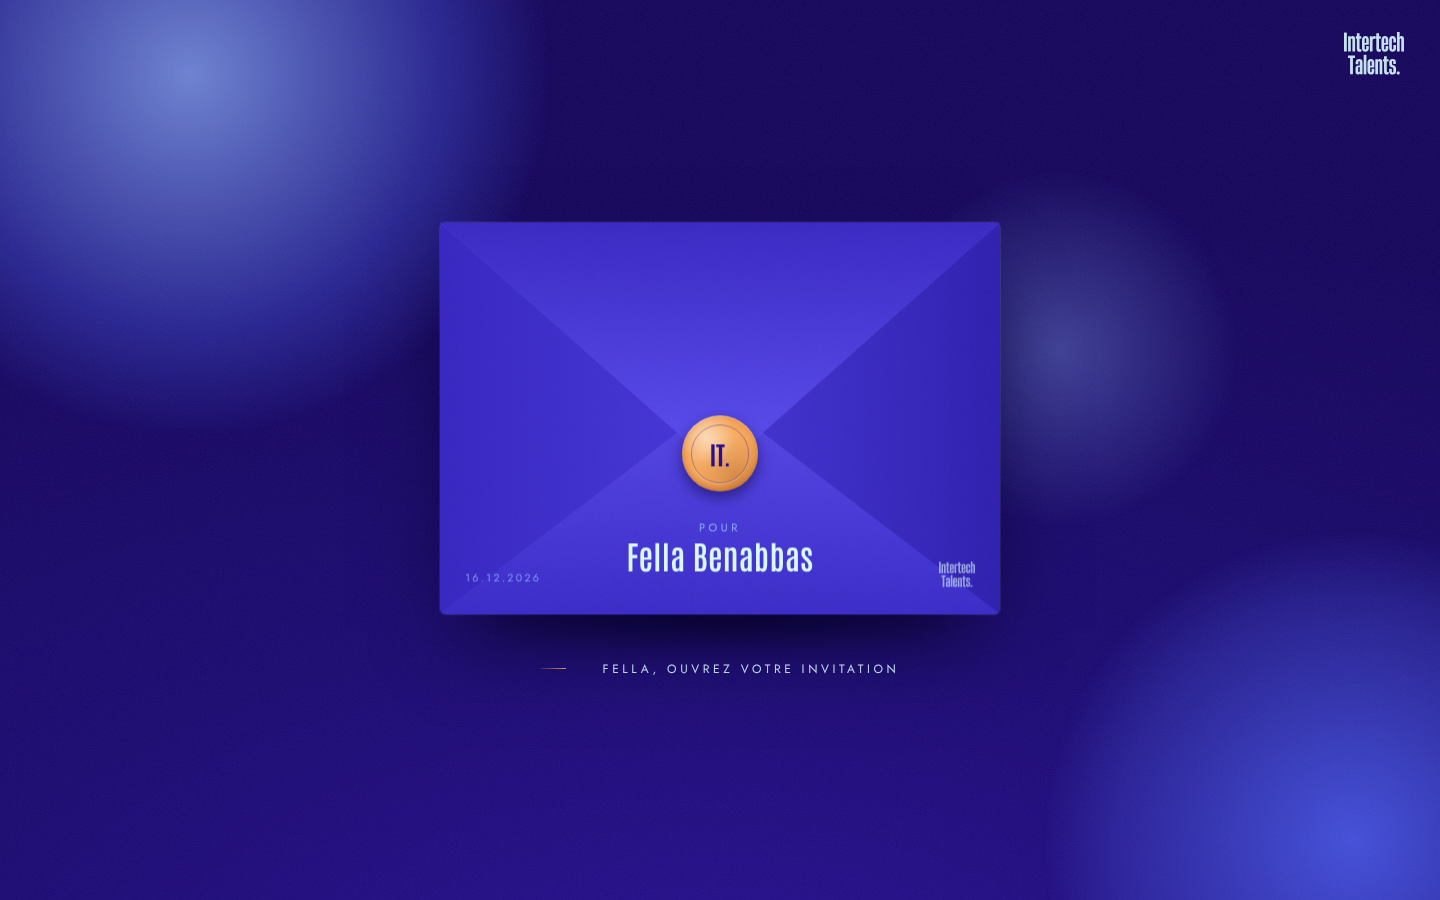
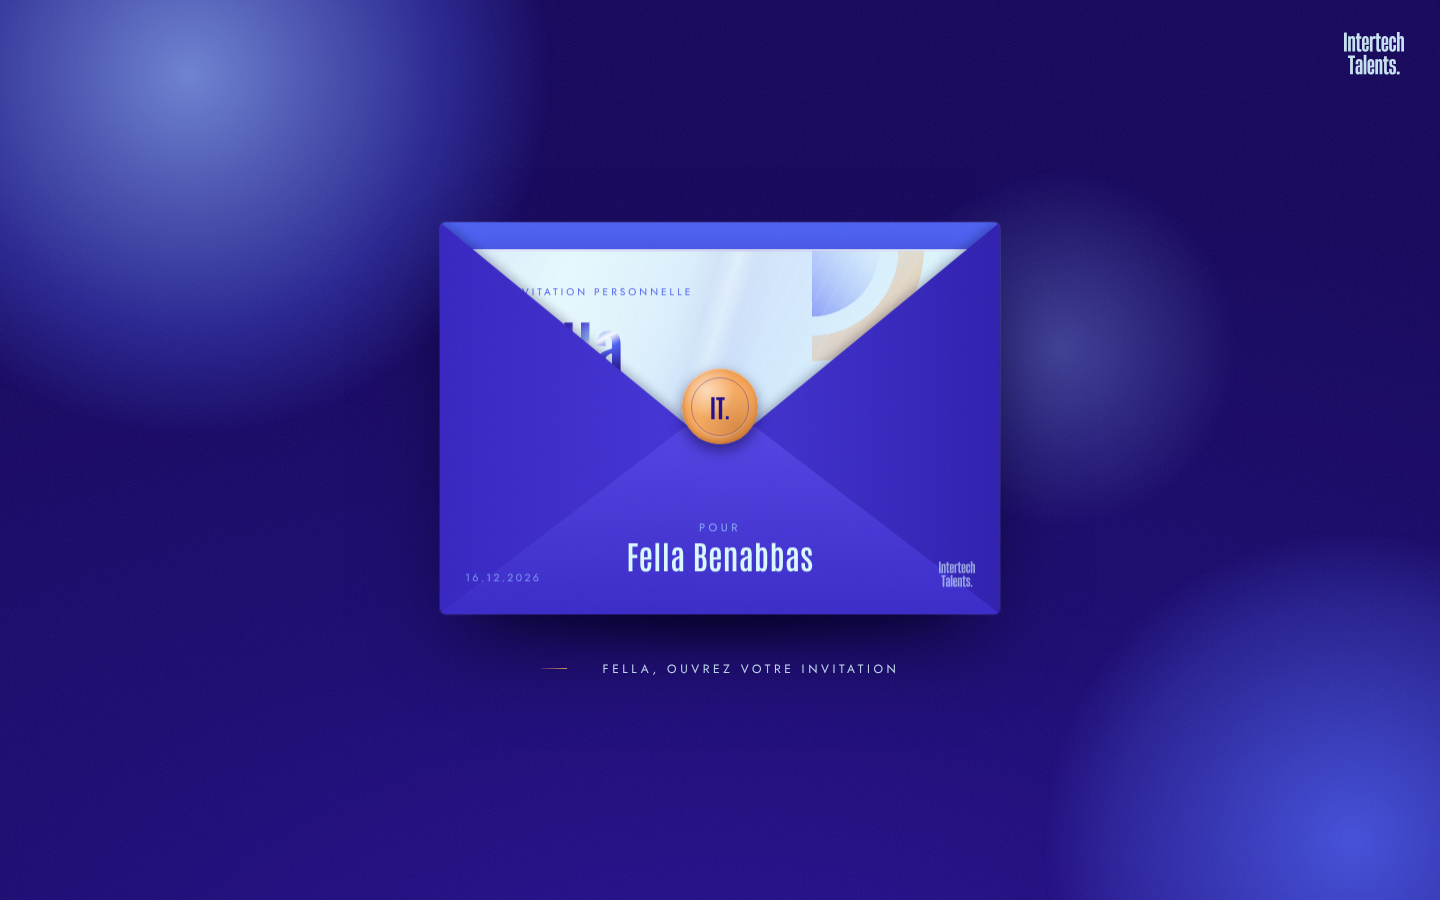
Sans rabat : carte holographique et reflets chromés au survol
- Enveloppe ouverte, la carte dépasse de la pochette
- Film irisé aux couleurs de la charte, biseau et liseré chromé
- Reflets métalliques et nom en métal poli qui suivent le pointeur

Claude-Session: https://claude.ai/code/session_01SQXEc3PKu3dyyKJ4NewrgJ

Changed region(s): [[0.3125, 0.2489, 0.6875, 0.56]]

diff --git a/styles.css b/styles.css
@@ -99,7 +99,7 @@ main { position: relative; z-index: 1; height: 100%; }
 .env-pocket { position: absolute; inset: 0; z-index: 3; border-radius: 6px; overflow: hidden; pointer-events: none; }
 .env-pocket > svg { position: absolute; inset: 0; width: 100%; height: 100%;
   filter: drop-shadow(0 -2px 6px rgba(10, 3, 50, .35)); }
-.pocket-grain, .flap-grain { position: absolute; inset: 0; background-image: var(--grain); background-size: 180px;
+.pocket-grain { position: absolute; inset: 0; background-image: var(--grain); background-size: 180px;
   opacity: .05; }
 .pocket-grain { -webkit-mask: linear-gradient(#000, #000); }
 .recipient { position: absolute; left: 0; right: 0; bottom: 11%; display: grid; justify-items: center; gap: .35em;
@@ -112,16 +112,8 @@ main { position: relative; z-index: 1; height: 100%; }
 .pocket-logo { position: absolute; right: 4.5%; bottom: 7%; width: 36px; color: var(--ice); opacity: .6; }
 
 /* Rabat */
-.env-flap { position: absolute; left: 0; right: 0; top: 0; height: 63%; z-index: 4;
-  transform-origin: 50% 0; transform-style: preserve-3d; will-change: transform; }
-.flap-face { position: absolute; inset: 0; backface-visibility: hidden; -webkit-backface-visibility: hidden; }
-.flap-face svg { width: 100%; height: 100%; display: block; }
-
-.flap-out .flap-grain { clip-path: polygon(0 0, 100% 0, 55% 90%, 50% 100%, 45% 90%); border-radius: 6px 6px 0 0; }
-.flap-in { transform: rotateX(180deg); }
-
 /* Cachet */
-.seal { position: absolute; z-index: 5; left: 50%; top: 59%; width: clamp(54px, calc(var(--env-w) * .135), 78px);
+.seal { position: absolute; z-index: 5; left: 50%; top: 47%; width: clamp(54px, calc(var(--env-w) * .135), 78px);
   aspect-ratio: 1; margin-left: calc(clamp(54px, calc(var(--env-w) * .135), 78px) / -2);
   margin-top: calc(clamp(54px, calc(var(--env-w) * .135), 78px) / -2);
   border-radius: 50%; display: grid; place-items: center;
@@ -150,7 +142,7 @@ main { position: relative; z-index: 1; height: 100%; }
    CARTE
    ========================================================================== */
 .card {
-  position: absolute; z-index: 2; left: 5%; right: 5%; top: 5%; height: 88%;
+  position: absolute; z-index: 2; left: 5%; right: 5%; top: 7%; height: 88%;
   background:
     radial-gradient(120% 80% at 0% 0%, #f1fdff 0%, transparent 60%),
     linear-gradient(180deg, #e3fbff 0%, var(--ice) 100%);
@@ -269,6 +261,62 @@ main { position: relative; z-index: 1; height: 100%; }
 .replay:hover { color: var(--ink); border-color: rgba(40, 15, 145, .35); }
 .replay:hover svg { transform: rotate(-200deg); }
 .replay:focus-visible { outline: 2px solid var(--amber); outline-offset: 4px; }
+
+/* ---------- Hologramme chromé (couleurs de la charte) ----------
+   Variables pilotées par invitation.js sur .card :
+   --px / --py : position du pointeur (0 → 1) · --hov : intensité du survol (0 → 1) */
+.card { --px: .3; --py: .35; --hov: 0; }
+.holo { position: absolute; inset: 0; pointer-events: none; overflow: hidden; border-radius: inherit; }
+/* film irisé, tons froids + fine bande ambre */
+.holo::before { content: ""; position: absolute; inset: 0; opacity: calc(.32 + var(--hov) * .18);
+  background: linear-gradient(118deg,
+    #daf9ff 0%, #8bacfa 12%, #daf9ff 22%, #b7c3ff 32%, #daf9ff 40%,
+    #f6a95f 45%, #daf9ff 50%, #8bacfa 60%, #daf9ff 70%, #9aa8fb 82%, #daf9ff 100%);
+  background-size: 320% 320%;
+  background-position: calc(var(--px) * 100%) calc(var(--py) * 100%); }
+/* diffraction très fine */
+.holo-lines { position: absolute; inset: 0; opacity: calc(.14 + var(--hov) * .12);
+  background: repeating-linear-gradient(118deg, transparent 0 7px, rgba(255,255,255,.9) 8px, transparent 9px 14px); }
+/* reflet chromé : point spéculaire + filet net, comme une surface métallique */
+.holo-glare { position: absolute; inset: 0; opacity: calc(.25 + var(--hov) * .75);
+  background:
+    radial-gradient(38% 55% at calc(var(--px) * 100%) calc(var(--py) * 100%), rgba(255,255,255,.95), rgba(255,255,255,0) 70%),
+    linear-gradient(calc(100deg + var(--px) * 30deg),
+      transparent calc(28% + var(--px) * 40%),
+      rgba(40,15,145,.14) calc(33% + var(--px) * 40%),
+      rgba(255,255,255,.9) calc(36% + var(--px) * 40%),
+      rgba(40,15,145,.12) calc(39% + var(--px) * 40%),
+      transparent calc(44% + var(--px) * 40%)); }
+/* biseau : arête claire en haut/gauche, ombre indigo en bas/droite, liseré chromé qui tourne */
+.card::after { content: ""; position: absolute; inset: 0; border-radius: inherit; pointer-events: none; z-index: 3;
+  box-shadow:
+    inset 0 1.5px 0 rgba(255,255,255,.95),
+    inset 1.5px 0 0 rgba(255,255,255,.6),
+    inset 0 -2px 3px rgba(40,15,145,.28),
+    inset -2px 0 3px rgba(40,15,145,.18); }
+.card::before { content: ""; position: absolute; inset: 0; border-radius: inherit; padding: 1.5px; pointer-events: none; z-index: 3;
+  background: conic-gradient(from calc(var(--px) * 360deg + 200deg),
+    #daf9ff, #4d61f4, #280f91, #8bacfa, #ffffff, #f6a95f, #daf9ff, #4d61f4, #daf9ff);
+  -webkit-mask: linear-gradient(#000 0 0) content-box, linear-gradient(#000 0 0);
+  -webkit-mask-composite: xor; mask-composite: exclude;
+  opacity: calc(.45 + var(--hov) * .55); }
+/* nom en métal poli */
+.cover-name {
+  background: linear-gradient(calc(165deg + (var(--px) - .5) * 50deg),
+    #280f91 0%, #3b2bc4 34%, #8bacfa 45%, #ffffff 50%, #4d61f4 56%, #280f91 72%, #3420b4 100%);
+  background-size: 100% 220%; background-position: 0 calc(var(--py) * 100%);
+  -webkit-background-clip: text; background-clip: text; color: transparent;
+  filter: drop-shadow(0 1px 0 rgba(255,255,255,.7)); }
+.cover { z-index: 1; }
+.card.is-full::before, .card.is-full::after { display: none; }
+.card.is-full .holo { height: 420px; bottom: auto;
+  -webkit-mask-image: linear-gradient(#000 0%, rgba(0,0,0,.5) 45%, transparent 100%);
+          mask-image: linear-gradient(#000 0%, rgba(0,0,0,.5) 45%, transparent 100%); }
+.card.is-full .holo::before { opacity: .26; }
+.card.is-full .holo-lines { opacity: .1; }
+.card.is-full .holo-glare { opacity: .35; }
+.card.is-full .full { z-index: 1; }
+@media (prefers-reduced-motion: reduce) { .card { --hov: 0 !important; } }
 
 /* ---------- Touches « tech » ---------- */
 .mono { font-family: var(--font-mono); font-weight: 400; letter-spacing: .06em; }

diff --git a/invitation.js b/invitation.js
@@ -108,7 +108,7 @@
 
   /* ---------- 3. Éléments ---------- */
   const envelope = $("#envelope"), envStage = $("#envStage"), envTilt = $("#envTilt");
-  const flap = $("#flap"), seal = $("#seal"), card = $("#card"), cover = $(".cover", card);
+  const seal = $("#seal"), card = $("#card"), cover = $(".cover", card);
   const openBtn = $("#openBtn"), hint = $("#hint"), hintLine = $(".hint-line");
   const reading = $("#reading"), slot = $("#slot"), scene = $("#scene");
   const recipient = $(".recipient"), shadow = $(".env-shadow"), live = $("#live");
@@ -135,7 +135,6 @@
   /* ---------- 4. Entrée ---------- */
   function intro() {
     gsap.set(envelope, { visibility: "visible" });
-    gsap.set(flap, { rotationX: 0, zIndex: 4, autoAlpha: 1 });
     gsap.set(seal, { autoAlpha: 1, scale: 1, y: 0, rotation: 0 });
     gsap.set(card, { yPercent: 0 });
 
@@ -155,7 +154,9 @@
      .add(() => { openBtn.disabled = false; idle(); });
   }
 
+  let holoTween;
   function idle() {
+    holoTween = gsap.fromTo(card, { "--px": .2, "--py": .3 }, { "--px": .8, "--py": .65, duration: 5, ease: "sine.inOut", yoyo: true, repeat: -1 });
     floatTween = gsap.to(envelope, { y: -6, duration: 2.8, ease: "sine.inOut", yoyo: true, repeat: -1 });
     gsap.to(shadow, { scale: .94, autoAlpha: .8, duration: 2.8, ease: "sine.inOut", yoyo: true, repeat: -1 });
     hintTween = gsap.fromTo(hintLine, { backgroundPosition: "0 0", scaleX: .4, transformOrigin: "0 50%" },
@@ -171,12 +172,31 @@
     const r = envTilt.getBoundingClientRect();
     sheen.style.setProperty("--mx", `${((e.clientX - r.left) / r.width) * 100}%`);
     sheen.style.setProperty("--my", `${((e.clientY - r.top) / r.height) * 100}%`);
+    // effet chromé : reflets pilotés par la position du pointeur sur la carte
+    const cr = card.getBoundingClientRect();
+    const over = e.clientX > cr.left && e.clientX < cr.right && e.clientY > cr.top && e.clientY < r.bottom;
+    const px = gsap.utils.clamp(0, 1, (e.clientX - cr.left) / cr.width);
+    const py = gsap.utils.clamp(0, 1, (e.clientY - cr.top) / (r.bottom - cr.top));
+    holoTween && holoTween.pause();
+    gsap.to(card, { "--px": px, "--py": py, "--hov": over ? 1 : .25, yPercent: over ? -16 : 0,
+      duration: .7, ease: "power3.out", overwrite: "auto" });
     const dx = (e.clientX - (r.left + r.width / 2)) / window.innerWidth;
     const dy = (e.clientY - (r.top + r.height / 2)) / window.innerHeight;
     tiltY(gsap.utils.clamp(-7, 7, dx * 14));
     tiltX(gsap.utils.clamp(-6, 6, -dy * 12));
   }
   window.addEventListener("pointermove", onMove, { passive: true });
+  document.addEventListener("pointerleave", () => {
+    if (opened) return;
+    gsap.to(card, { "--hov": 0, yPercent: 0, duration: .8, ease: "power3.out", overwrite: "auto" });
+    holoTween && holoTween.resume();
+  });
+  window.addEventListener("pointermove", (e) => {
+    if (!opened || busy || reduce.matches || !finePointer.matches) return;
+    const r = card.getBoundingClientRect();
+    const px = gsap.utils.clamp(0, 1, (e.clientX - r.left) / r.width);
+    gsap.to(card, { "--px": px, duration: 1.2, ease: "power3.out", overwrite: "auto" });
+  }, { passive: true });
 
   /* ---------- 6. Ouverture ---------- */
   function open() {
@@ -185,6 +205,7 @@
     openBtn.disabled = true;
     floatTween && floatTween.kill();
     hintTween && hintTween.kill();
+    holoTween && holoTween.kill();
     gsap.killTweensOf(shadow);
     tiltX(0); tiltY(0);
 
@@ -206,19 +227,17 @@
       .to(envelope, { y: 0, duration: .3, ease: "power2.out" }, 0)
       .to(seal, { scale: .9, duration: .16, ease: "power2.in" }, 0)
       .to(seal, { scale: 1.06, duration: .22, ease: "power2.out" }, .16)
-      // le cachet se détache et accompagne le rabat
+      // le cachet s'efface, un reflet traverse l'hologramme
       .to(seal, { autoAlpha: 0, scale: .85, duration: .4, ease: "power2.in" }, .34)
-      // 1. le rabat se déplie
-      .to(flap, { rotationX: 180, duration: 1.05, ease: "power3.inOut" }, .36)
-      .set(flap, { zIndex: 1 }, .36 + 1.05 * .5)
-      .to(flap, { autoAlpha: 0, duration: .4, ease: "power1.out" }, .36 + 1.05 * .42)
-      .to(recipient, { autoAlpha: 0, duration: .5 }, .5)
+      .to(card, { "--px": 1, "--py": .2, "--hov": 1, duration: .9, ease: "power2.inOut", overwrite: "auto" }, .2)
+      .to(card, { "--hov": 0, duration: .8, ease: "power2.out" }, 1.1)
+      .to(recipient, { autoAlpha: 0, duration: .5 }, .4)
       // léger recul de l'enveloppe pour laisser respirer la carte
-      .to(envStage, { y: mobile ? "8vh" : "10vh", scale: mobile ? .94 : .9, duration: 1.3, ease: "power3.inOut" }, 1.0)
-      // 2–3. la carte apparaît puis glisse hors de l'enveloppe
-      .to(card, { yPercent: -66, duration: 1.15, ease: "power3.inOut" }, 1.15)
-      // 4. elle rejoint sa position de lecture
-      .add(toReading, 2.2);
+      .to(envStage, { y: mobile ? "8vh" : "10vh", scale: mobile ? .94 : .9, duration: 1.2, ease: "power3.inOut" }, .45)
+      // la carte glisse hors de l'enveloppe
+      .to(card, { yPercent: -66, duration: 1.1, ease: "power3.inOut" }, .55)
+      // puis rejoint sa position de lecture
+      .add(toReading, 1.6);
   }
 
   function placeCardInReading() {
@@ -276,6 +295,7 @@
         envelope.insertBefore(card, $(".env-pocket", envelope));
         gsap.set([card, cover, ...$$(".reveal", card)], { clearProps: "all" });
         gsap.set([envStage, envTilt, envelope, seal, recipient, shadow, hint], { clearProps: "transform,opacity,visibility" });
+        gsap.set(card, { "--px": .3, "--py": .35, "--hov": 0 });
         scene.removeAttribute("aria-hidden");
         scene.style.visibility = "";
         opened = false; busy = false;

diff --git a/index.html b/index.html
@@ -66,6 +66,9 @@
                 <path d="M200 116 A84 84 0 0 0 116 200 L200 200 Z" fill="url(#ornB)" opacity=".8"/>
               </svg>
 
+              <!-- Film holographique (couleurs de la charte) -->
+              <div class="holo" aria-hidden="true"><span class="holo-lines"></span><span class="holo-glare"></span></div>
+
               <!-- Recto visible dans l'enveloppe -->
               <div class="cover" aria-hidden="true">
                 <span class="cover-eyebrow" data-bind="event.eyebrow"></span>
@@ -197,38 +200,10 @@
               <span class="pocket-code" data-bind="guest.code"></span>
             </div>
 
-            <!-- Rabat supérieur (deux faces) + cachet -->
-            <div class="env-flap" id="flap" aria-hidden="true">
-              <div class="flap-face flap-out">
-                <svg viewBox="0 0 100 44" preserveAspectRatio="none">
-                  <defs>
-                    <linearGradient id="flapOut" x1="0" y1="0" x2="0" y2="1">
-                      <stop offset="0" stop-color="#3a28c4"/>
-                      <stop offset="1" stop-color="#5a4df0"/>
-                    </linearGradient>
-                  </defs>
-                  <path d="M0 0 H100 L55.2 39.6 Q50 44 44.8 39.6 Z" fill="url(#flapOut)"/>
-                  <path d="M0 0 L44.8 39.6 Q50 44 55.2 39.6 L100 0" fill="none" stroke="#daf9ff" stroke-opacity=".22" stroke-width=".25" vector-effect="non-scaling-stroke"/>
-                </svg>
-                <span class="flap-grain"></span>
-              </div>
-              <div class="flap-face flap-in">
-                <svg viewBox="0 0 100 44" preserveAspectRatio="none">
-                  <defs>
-                    <linearGradient id="flapIn" x1="0" y1="0" x2="0" y2="1">
-                      <stop offset="0" stop-color="#2a1499"/>
-                      <stop offset="1" stop-color="#3a28c4"/>
-                    </linearGradient>
-                  </defs>
-                  <path d="M0 0 H100 L55.2 39.6 Q50 44 44.8 39.6 Z" fill="url(#flapIn)"/>
-                </svg>
-              </div>
-            </div>
-
             <!-- Reflet qui suit le pointeur -->
             <span class="env-sheen" id="sheen" aria-hidden="true"></span>
 
-            <!-- Cachet (suit le rabat à l'ouverture) -->
+            <!-- Cachet -->
             <span class="seal" id="seal" aria-hidden="true">
               <span class="seal-ring"></span>
               <span class="seal-mark">IT.</span>
